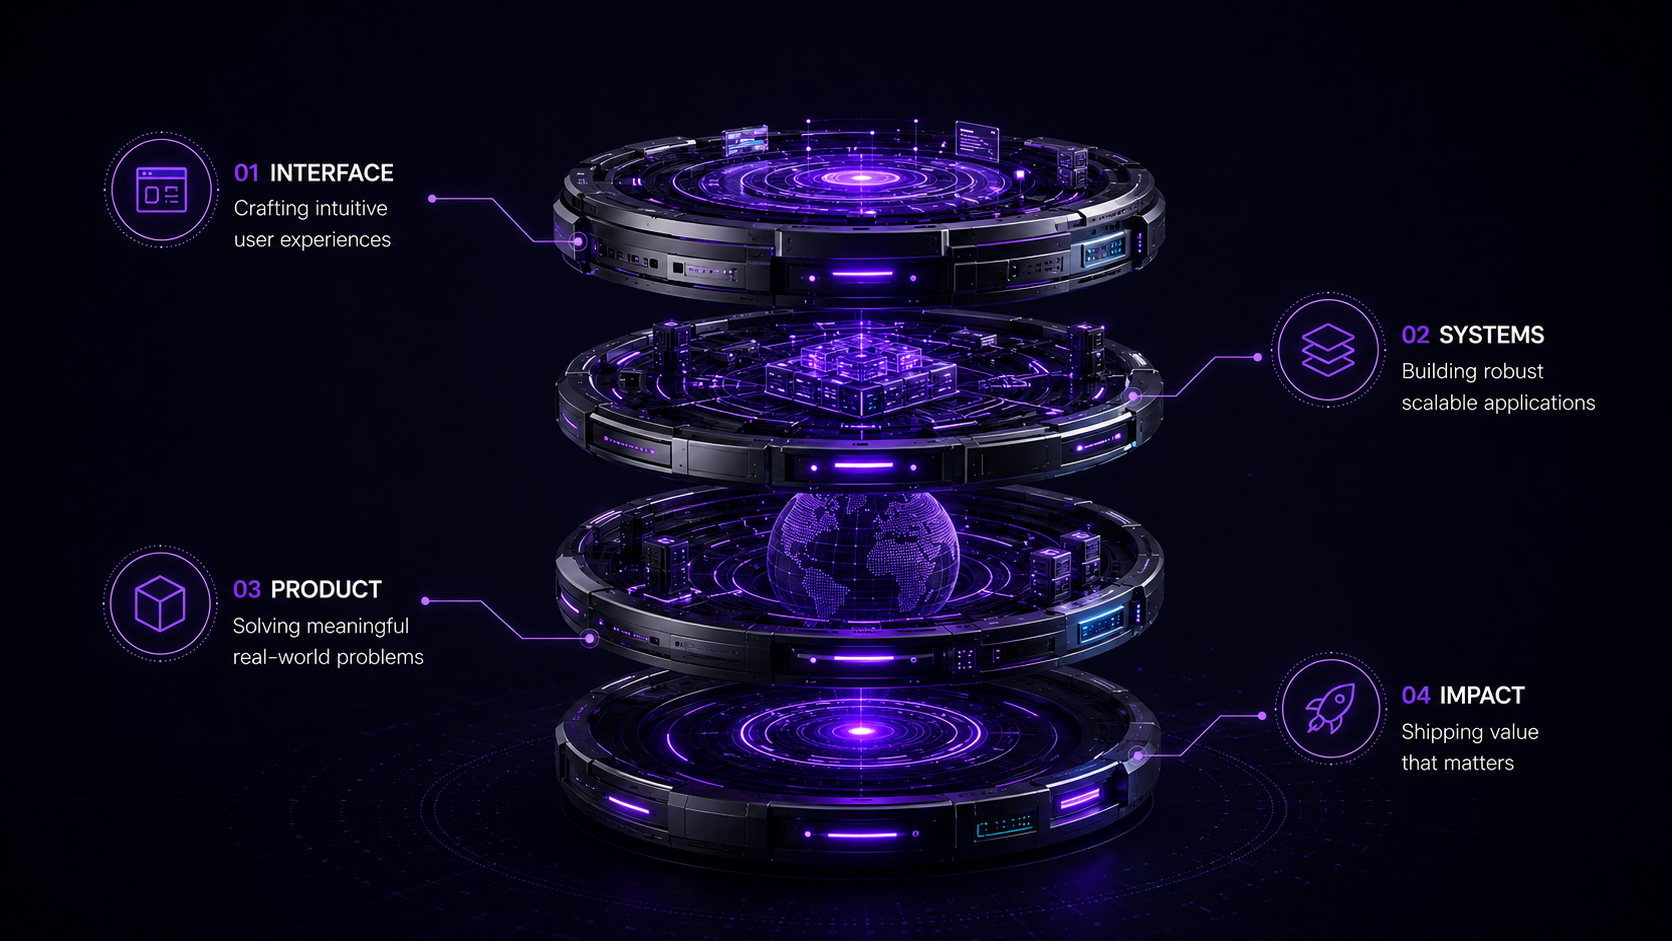
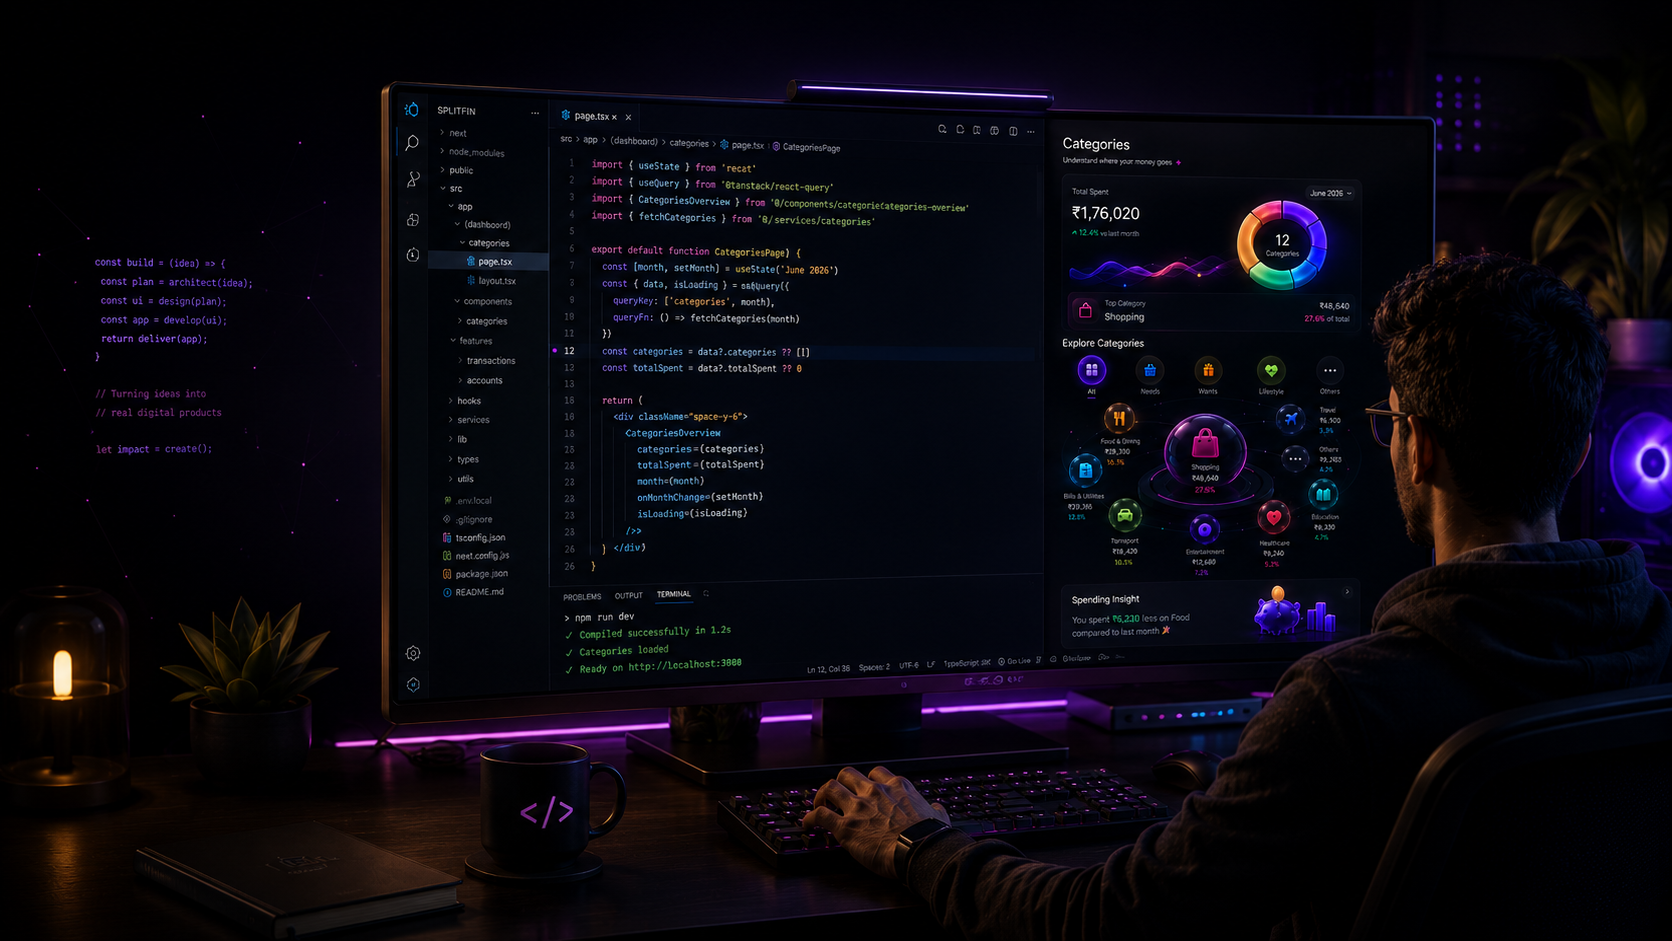
feat: redesign hero section with product engineering visual

diff --git a/components/sections/hero-section.tsx b/components/sections/hero-section.tsx
@@ -1,13 +1,11 @@
 'use client'
 
 import Image from 'next/image'
+import Link from 'next/link'
 import { useCallback, useEffect, useRef, useState } from 'react'
-import { ArrowRight, Mail } from 'lucide-react'
+import { ArrowRight, Download, Mail } from 'lucide-react'
+import { siteConfig } from '@/lib/site-config'
 
-// Fixed, deterministic foreground particles that drift across the artwork
-// region only — sparse, dim, and mostly violet with one magenta accent and
-// one restrained cyan accent. The last two are hidden below `sm` so mobile
-// only ever shows three, per the "2-4 particles on mobile" motion spec.
 const HERO_FIELD_PARTICLES = [
   { x: 12, y: 18, size: 2, opacity: 0.3, color: '139,92,246', dur: 15, delay: -2, mobile: true },
   { x: 66, y: 78, size: 2, opacity: 0.24, color: '217,70,239', dur: 18, delay: -4, mobile: true },
@@ -15,6 +13,10 @@ const HERO_FIELD_PARTICLES = [
   { x: 82, y: 12, size: 1, opacity: 0.18, color: '34,211,238', dur: 21, delay: -8, mobile: false },
   { x: 90, y: 55, size: 1, opacity: 0.16, color: '139,92,246', dur: 19, delay: -6, mobile: false },
 ]
+
+const ENTER = (step: number) => ({
+  animation: `hero-content-enter 0.6s ease-out ${step * 70}ms both`,
+})
 
 export function HeroSection() {
   const artRef = useRef<HTMLDivElement>(null)
@@ -24,16 +26,10 @@ export function HeroSection() {
   const scrollEnabledRef = useRef(false)
 
   useEffect(() => {
-    const prefersReducedMotion = window.matchMedia(
-      '(prefers-reduced-motion: reduce)',
-    ).matches
+    const prefersReducedMotion = window.matchMedia('(prefers-reduced-motion: reduce)').matches
     const isTouch = window.matchMedia('(pointer: coarse)').matches
     const isSmallViewport = window.matchMedia('(max-width: 767px)').matches
-
-    // Pointer depth: desktop pointer devices only (Motion Layer F).
     parallaxEnabledRef.current = !prefersReducedMotion && !isTouch
-    // Scroll depth: desktop/tablet only, skipped on small viewports and
-    // reduced motion (Motion Layer G).
     scrollEnabledRef.current = !prefersReducedMotion && !isSmallViewport
   }, [])
 
@@ -49,13 +45,10 @@ export function HeroSection() {
 
   const handlePointerLeave = useCallback(() => setParallax({ x: 0, y: 0 }), [])
 
-  // Motion Layer G — scroll depth. Extremely small (max ~10px), rAF-throttled,
-  // passive, and fully disabled on small viewports / reduced motion.
   useEffect(() => {
     const section = document.getElementById('home')
     if (!section) return
     let ticking = false
-
     const update = () => {
       ticking = false
       if (!scrollEnabledRef.current) return
@@ -65,57 +58,83 @@ export function HeroSection() {
       const shift = Math.max(-10, Math.min(10, distance * -0.015))
       setScrollShift(shift)
     }
-
     const onScroll = () => {
       if (ticking) return
       ticking = true
       requestAnimationFrame(update)
     }
-
     update()
     window.addEventListener('scroll', onScroll, { passive: true })
     return () => window.removeEventListener('scroll', onScroll)
   }, [])
 
+  const scrollTo = (id: string) => (e: React.MouseEvent) => {
+    e.preventDefault()
+    document.getElementById(id)?.scrollIntoView({ behavior: 'smooth' })
+  }
+
   return (
     <section
       id="home"
-      className="scroll-section relative mx-auto flex min-h-[85vh] max-w-[1600px] flex-col items-center gap-5 px-4 pb-8 pt-12 [overflow-x:clip] sm:px-6 lg:flex-row lg:gap-6 lg:px-8 lg:py-16 xl:min-h-[800px]"
+      className="scroll-section scroll-mt-20 relative mx-auto flex max-w-[1600px] flex-col items-center gap-6 px-4 pb-10 pt-12 [overflow-x:clip] sm:px-6 lg:min-h-[calc(100svh-4rem)] lg:flex-row lg:gap-8 lg:px-8 lg:py-14"
     >
-      {/* Left */}
-      <div className="relative z-10 flex w-full flex-col gap-6 lg:w-[46%]">
-        <span className="border-border bg-card inline-flex w-fit items-center gap-2 rounded-full border px-3.5 py-1.5 text-xs font-medium">
+      {/* Left — content. Note: no min-height on this section below `lg`.
+          That forced min-height was the cause of the large empty gap
+          after the artwork on mobile — the section was reserving full
+          viewport height even though content was shorter. Height is now
+          auto below `lg` and only the desktop row gets the viewport-aware
+          min-height. */}
+      <div className="relative z-10 flex w-full flex-col gap-5 lg:w-[48%]">
+        <span
+          style={ENTER(0)}
+          className="border-border bg-card inline-flex w-fit items-center gap-2 rounded-full border px-3.5 py-1.5 text-xs font-medium"
+        >
           <span className="bg-success size-2 rounded-full" aria-hidden="true" />
           Available for opportunities
         </span>
 
-        <div className="flex flex-col gap-4">
-          <p className="eyebrow">{"HEY, I'M"}</p>
-          <h1 className="text-4xl font-bold tracking-tight text-balance sm:text-5xl lg:text-6xl">
+        <p style={ENTER(1)} className="eyebrow">
+          Software Engineer · Frontend-Focused Full Stack
+        </p>
+
+        <div style={ENTER(2)} className="flex flex-col gap-2">
+          <p className="text-muted-foreground text-lg font-medium">Hi, I&apos;m</p>
+          <h1 className="text-4xl font-bold tracking-tight text-balance sm:text-5xl lg:text-[3.25rem] lg:leading-[1.05]">
             Bhanuprasad <span className="text-primary">L.</span>
           </h1>
-          <p className="text-lg font-semibold sm:text-xl">
-            Full Stack Developer · Product Builder
+        </div>
+
+        <h2
+          style={ENTER(3)}
+          className="text-2xl leading-tight font-bold text-balance sm:text-3xl lg:text-[2rem]"
+        >
+          I build interfaces that grow into{' '}
+          <span className="text-primary">real products.</span>
+        </h2>
+
+        <p style={ENTER(4)} className="text-muted-foreground max-w-[36rem] leading-relaxed text-pretty">
+          I turn product ideas into polished web experiences — connecting thoughtful UI with
+          application logic, APIs and data to build products that are fast, maintainable and
+          ready to evolve.
+        </p>
+
+        <div style={ENTER(5)} className="flex flex-col gap-2">
+          <p className="text-primary/80 text-xs font-semibold tracking-[0.15em] uppercase">
+            Engineering Focus
+          </p>
+          <p className="text-muted-foreground max-w-[36rem] leading-relaxed text-pretty">
+            Building across the product surface — UI systems, application state, API integration
+            and data-backed workflows.
           </p>
         </div>
 
-        <p className="text-muted-foreground max-w-md leading-relaxed text-pretty">
-          I turn product ideas into polished interfaces, scalable systems and web
-          experiences built to create real value.
-        </p>
-
-        <div className="flex flex-wrap items-center gap-3">
+        <div style={ENTER(6)} className="flex flex-wrap items-center gap-3">
           <a
-            href="#skills"
-            onClick={(e) => {
-              e.preventDefault()
-              document
-                .getElementById('skills')
-                ?.scrollIntoView({ behavior: 'smooth' })
-            }}
+            href="#projects"
+            onClick={scrollTo('projects')}
             className="bg-primary text-primary-foreground hover:bg-primary/90 focus-visible:ring-primary/50 group inline-flex h-11 items-center gap-2 rounded-lg px-5 text-sm font-semibold transition-colors focus-visible:outline-none focus-visible:ring-2 focus-visible:ring-offset-2 focus-visible:ring-offset-background"
           >
-            View Skills
+            View Selected Work
             <ArrowRight
               className="size-4 transition-transform group-hover:translate-x-0.5"
               aria-hidden="true"
@@ -123,38 +142,81 @@ export function HeroSection() {
           </a>
           <a
             href="#contact"
-            onClick={(e) => {
-              e.preventDefault()
-              document
-                .getElementById('contact')
-                ?.scrollIntoView({ behavior: 'smooth' })
-            }}
+            onClick={scrollTo('contact')}
             className="border-border hover:border-primary/40 hover:bg-card focus-visible:ring-primary/50 inline-flex h-11 items-center gap-2 rounded-lg border px-5 text-sm font-semibold transition-colors focus-visible:outline-none focus-visible:ring-2 focus-visible:ring-offset-2 focus-visible:ring-offset-background"
           >
             <Mail className="size-4" aria-hidden="true" />
             Get In Touch
           </a>
+          <a
+            href={siteConfig.resumeUrl}
+            download
+            aria-label="Download resume"
+            className="border-border/60 text-muted-foreground hover:text-foreground hover:border-primary/30 inline-flex h-11 items-center gap-2 rounded-lg border px-4 text-sm font-medium transition-colors"
+          >
+            <Download className="size-4" aria-hidden="true" />
+            Download Resume
+          </a>
         </div>
 
-        <p className="text-muted-foreground/70 text-xs leading-relaxed sm:text-sm">
-          2+ years experience · Frontend-focused full stack · Remote, India
-        </p>
+        <div
+          style={ENTER(8)}
+          className="divide-border/60 flex flex-wrap items-center divide-x text-sm"
+        >
+          <span className="flex flex-col gap-0.5 pr-4">
+            <span className="font-semibold">2+ Years</span>
+            <span className="text-muted-foreground text-xs">Professional experience</span>
+          </span>
+          <span className="flex flex-col gap-0.5 px-4">
+            <span className="font-semibold">Frontend First</span>
+            <span className="text-muted-foreground text-xs">Full-stack execution</span>
+          </span>
+          <span className="flex flex-col gap-0.5 pl-4">
+            <span className="font-semibold">Remote · India</span>
+            <span className="text-muted-foreground text-xs">Open to opportunities</span>
+          </span>
+        </div>
+
+        <Link
+          href="/projects/splitfin"
+          style={ENTER(9)}
+          className="group border-border/60 flex items-center justify-between gap-4 border-t pt-4 transition-colors"
+        >
+          <span className="flex items-center gap-3">
+            <span className="bg-success size-1.5 shrink-0 rounded-full" aria-hidden="true" />
+            <span className="flex flex-col gap-0.5">
+              <span className="text-muted-foreground text-xs font-semibold tracking-[0.1em] uppercase">
+                Currently Building
+              </span>
+              <span className="text-sm">
+                <span className="text-primary font-semibold">SplitFin</span>
+                <span className="text-muted-foreground">
+                  {' '}
+                  — smart finance tracking, bill scanning &amp; shared expense splitting
+                </span>
+              </span>
+            </span>
+          </span>
+          <ArrowRight
+            className="text-muted-foreground group-hover:text-primary size-4 shrink-0 transition-transform group-hover:translate-x-0.5"
+            aria-hidden="true"
+          />
+        </Link>
       </div>
 
-      {/* Right visual — atmospheric integration zone.
-          Stage width uses available viewport width without artificial caps.
-          The 16:9 artwork preserves its composition at all breakpoints. */}
-      <div className="relative w-full lg:w-[54%]">
-        <div className="relative mx-auto w-full max-w-[950px]">
-
-          {/* Scroll depth wrapper */}
+      {/* Right visual. Column widened to 54% and the artwork is allowed to
+          overflow past its column toward the page edge on large screens
+          (clipped safely by [overflow-x:clip] on the section) so it reads
+          as substantially larger than before, without shrinking the text
+          column. */}
+      <div style={ENTER(3)} className="relative w-full lg:w-[52%]">
+        <div className="relative mx-auto w-full max-w-[820px] lg:ml-auto lg:max-w-[950px]">
           <div
             style={{
               transform: `translate3d(0, ${scrollShift}px, 0)`,
               transition: 'transform 0.2s linear',
             }}
           >
-            {/* Pointer depth wrapper */}
             <div
               className="relative"
               onPointerMove={handlePointerMove}
@@ -164,32 +226,22 @@ export function HeroSection() {
                 transition: 'transform 0.3s ease-out',
               }}
             >
-              {/* Drift layer — CSS-animation-driven, kept on its own element
-                  so it doesn't fight the inline transforms above */}
               <div ref={artRef} className="relative animate-hero-float-mobile lg:animate-hero-float">
-                {/* Subtle scale breathing animation */}
-                <div className="animate-energy-core">
-                  {/* Hero artwork edge integration wrapper - dissolves empty peripheral background into black canvas */}
-                  <div className="hero-artwork-wrapper relative">
-                    <div className="hero-artwork-top-scrim" />
-                    <div className="hero-artwork-bottom-scrim" />
-                    <Image
-                      src="/images/hero-process.png"
-                      alt="Layered 3D process visual with rings representing Interface, Systems, Product and Impact"
-                      width={900}
-                      height={900}
-                      priority
-                      className="h-auto w-full object-contain"
-                    />
-                  </div>
+                <div className="hero-artwork-wrapper relative">
+                  <div className="hero-artwork-top-scrim" />
+                  <div className="hero-artwork-bottom-scrim" />
+                  <Image
+                    src="/images/hero-process.png"
+                    alt="Layered 3D process visual with rings representing Interface, Systems, Product and Impact"
+                    width={900}
+                    height={900}
+                    priority
+                    sizes="(max-width: 767px) 100vw, (max-width: 1199px) 90vw, 62vw"
+                    className="h-auto w-full object-contain"
+                  />
                 </div>
               </div>
 
-
-              {/* Motion Layer C: vertical energy transfer — a thin, mostly
-                  invisible beam that occasionally travels the central axis.
-                  Confined to the middle third so it never crosses the
-                  01/02/03/04 label zones near the edges. */}
               <div
                 aria-hidden="true"
                 className="animate-energy-transfer pointer-events-none absolute left-1/2 top-[30%] bottom-[30%] w-px -translate-x-1/2"
@@ -200,8 +252,6 @@ export function HeroSection() {
                 }}
               />
 
-              {/* Motion Layer E: light sweep — infrequent, low-opacity, and
-                  clipped to the artwork stage only */}
               <div
                 aria-hidden="true"
                 className="pointer-events-none absolute inset-0 overflow-hidden"
@@ -216,7 +266,6 @@ export function HeroSection() {
                 />
               </div>
 
-              {/* Layer G: local ambient particles */}
               <div aria-hidden="true" className="pointer-events-none absolute inset-0" style={{ zIndex: 2 }}>
                 {HERO_FIELD_PARTICLES.map((p, i) => (
                   <span